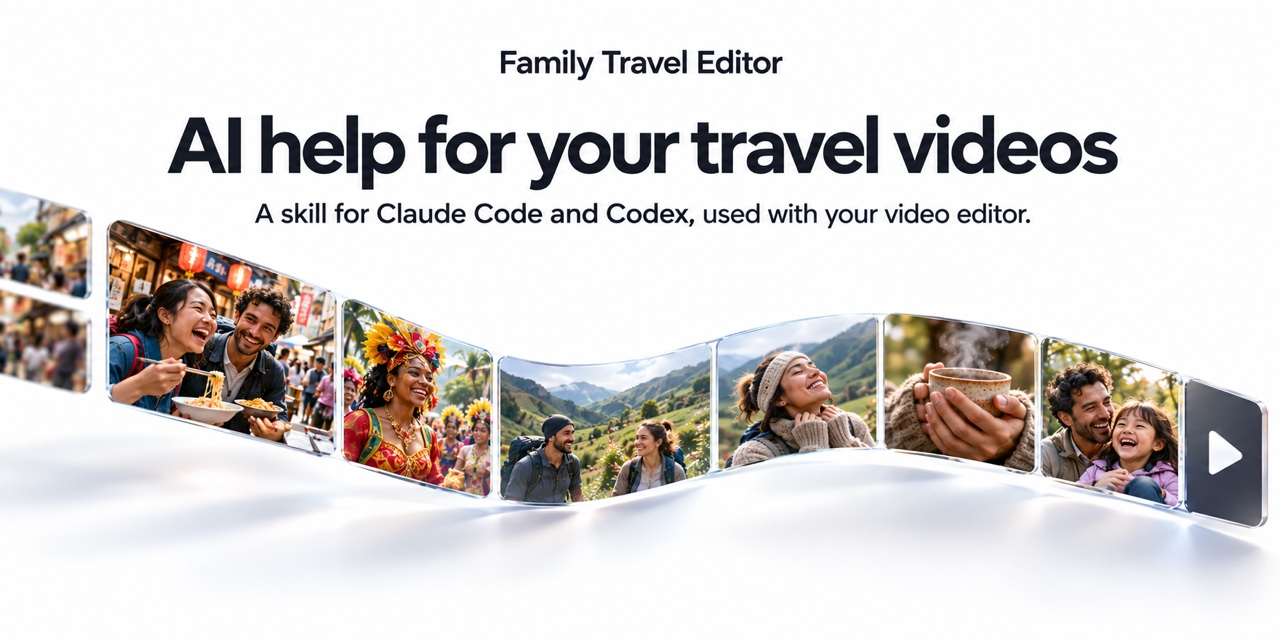
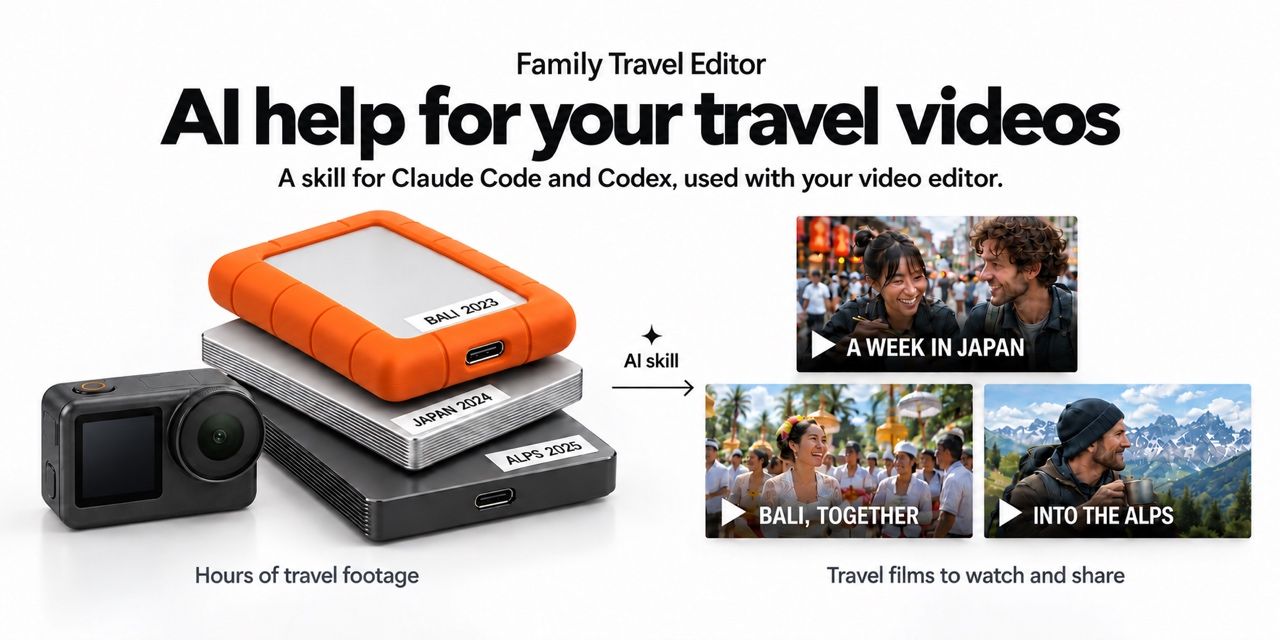
Release v0.3.7: publish selected drives-to-films cover with corrected hardware scale and USB placement

diff --git a/README.md b/README.md
@@ -1,14 +1,14 @@
 # Family Travel Editor
 
-<img src="assets/social-preview.jpg" alt="Family Travel Editor: an AI skill for Claude Code and Codex. A ribbon of travel scenes shows people, food, celebrations and mountain trips coming together in an edit." width="100%">
+<img src="assets/social-preview.jpg" alt="Family Travel Editor: an AI skill for Claude Code and Codex. Three labelled travel drives and an action camera lead to three travel films with AI help, using a separate video editor." width="100%">
 
 **An AI skill for Claude Code and Codex, used with your video editor.** It is not a standalone editor. It provides instructions, examples and helper tools for organizing footage, planning scenes and working through revisions. You use it in a local AI agent; you assemble the film in your preferred video editor. Direct editing by the agent requires an available, tested integration.
 
-[**Start here →**](#start-with-one-scene) · [What’s New in v0.3.6](docs/whats-new-v0.3.6.md) · [Capabilities and limits](docs/capabilities.md) · [Real-footage example](examples/grand-canyon-sunset/README.md)
+[**Start here →**](#start-with-one-scene) · [What’s New in v0.3.7](docs/whats-new-v0.3.7.md) · [Capabilities and limits](docs/capabilities.md) · [Real-footage example](examples/grand-canyon-sunset/README.md)
 
 ## Start with one scene
 
-1. **[Download the v0.3.6 source ZIP](https://github.com/denyakortunov/family-travel-editor/releases/download/v0.3.6/family-travel-editor-source-v0.3.6.zip)** and unzip it. Open the extracted folder in your local AI agent.
+1. **[Download the v0.3.7 source ZIP](https://github.com/denyakortunov/family-travel-editor/releases/download/v0.3.7/family-travel-editor-source-v0.3.7.zip)** and unzip it. Open the extracted folder in your local AI agent.
 2. Ask: **“Read `skills/family-travel-editor/SKILL.md`, check this installation and explain the next step.”** The agent needs file access. The helper check needs Python 3.9+; no editor, footage or paid service is required for that check.
 3. Give the agent **your footage folder, a separate working folder and one scene you want to tell**. Name your editor, or say “undecided.” Expect a catalogue, a readable scene plan, open questions and a saved next step. A catalogue is not proof that the clips have been watched.
 
@@ -30,7 +30,7 @@ Open a new chat and invoke `$family-travel-editor`, or ask the agent to read the
 An alternative for other compatible agents is the optional [skills CLI](https://github.com/vercel-labs/skills):
 
 ```sh
-npx skills add https://github.com/denyakortunov/family-travel-editor/tree/v0.3.6/skills/family-travel-editor
+npx skills add https://github.com/denyakortunov/family-travel-editor/tree/v0.3.7/skills/family-travel-editor
 ```
 
 Choose your agent when prompted. This route needs Node.js; the Python installer does not. See the [guide](docs/getting-started.md) for updates with backups and the [test record](docs/validation.md) for what has actually been checked.

diff --git a/docs/getting-started.md b/docs/getting-started.md
@@ -1,6 +1,6 @@
 # Your first scene
 
-[Download v0.3.6](https://github.com/denyakortunov/family-travel-editor/releases/tag/v0.3.6) · [What's New](whats-new-v0.3.6.md) · [Full workflow](from-footage-to-film.md)
+[Download v0.3.7](https://github.com/denyakortunov/family-travel-editor/releases/tag/v0.3.7) · [What's New](whats-new-v0.3.7.md) · [Full workflow](from-footage-to-film.md)
 
 This is a skill for a local AI agent, not a video-editing app. Installing it adds instructions and small helpers. It does not begin an edit, install Resolve, connect private accounts or download models. The helper programs need Python 3.9+ and an agent that can access your files. Text-only planning can begin without Python. ffprobe adds technical media metadata; rendering the optional silent test needs FFmpeg and ffprobe. Your agent has its own access and pricing.
 
@@ -8,7 +8,7 @@ This is a skill for a local AI agent, not a video-editing app. Installing it add
 
 ### Start here: source ZIP, no global installation needed
 
-Download **family-travel-editor-source-v0.3.6.zip** from the release and unzip it. Open the `family-travel-editor` folder in your local agent. The `README.md`, `tools/` and `skills/` folders should be visible. Ask it:
+Download **family-travel-editor-source-v0.3.7.zip** from the release and unzip it. Open the `family-travel-editor` folder in your local agent. The `README.md`, `tools/` and `skills/` folders should be visible. Ask it:
 
 > Read skills/family-travel-editor/SKILL.md. Check this installation and explain the next step. Do not edit any film yet.
 
@@ -35,7 +35,7 @@ Open a new chat in your film workspace and type `$family-travel-editor`. If it d
 From the project where you want to use it:
 
 ```sh
-npx skills add https://github.com/denyakortunov/family-travel-editor/tree/v0.3.6/skills/family-travel-editor
+npx skills add https://github.com/denyakortunov/family-travel-editor/tree/v0.3.7/skills/family-travel-editor
 ```
 
 Choose your agent when prompted. This pins the skill to this release; the short repository form follows current main. The [third-party CLI](https://github.com/vercel-labs/skills) supports several agents; its current documentation requires Node.js 22.20+. The skill itself needs no Node runtime. Use the Python route if you prefer no npm dependency. The entire skill folder is self-contained; repository-level `tools/` and examples are not runtime dependencies. See [what was tested](validation.md).

diff --git a/THIRD_PARTY_NOTICES.md b/THIRD_PARTY_NOTICES.md
@@ -6,7 +6,7 @@ DJI, Gmail, DaVinci Resolve, Dropbox and YouTube symbols come from https://githu
 
 Resolve, FFmpeg, Python, optional models and service integrations are not redistributed by this repository. The color-bar and story-to-cut fixtures are synthetic; the separately credited Grand Canyon exercise uses public-domain NPS footage. No private family footage, travel records or voice recordings are bundled.
 
-The current travel-ribbon cover is original AI-generated illustrative artwork created with OpenAI image generation. Its people and travel scenes are fictional illustrations, not private family footage, testimonials or evidence of an edit made by the skill. The JPEG is exported from the selected raster artwork. The plugin icon is original SVG artwork. Earlier release archives retain their original covers and diagrams.
+The current drives-to-films cover is original AI-generated illustrative artwork created with OpenAI image generation. Its devices, people and travel scenes are illustrative; the trips and film covers are fictional, not private family footage, testimonials or evidence of an edit made by the skill. The JPEG is exported from the selected raster artwork. The plugin icon is original SVG artwork. Earlier release archives retain their original covers and diagrams.
 
 Historical diagrams retain earlier AI-generated device illustrations; those are illustrative, not application screenshots. Document icons reuse source assets in `docs/icons/`. The photographic concept cover from v0.3.3 has been removed from the current package; earlier release archives retain their original contents.
 

diff --git a/docs/whats-new-v0.3.7.md b/docs/whats-new-v0.3.7.md
@@ -1,0 +1,11 @@
+# What’s New in v0.3.7
+
+29 October 2026 — the selected drives-to-films cover.
+
+- Three labelled travel drives and an action camera show the starting material; three film covers show the intended result of the editing process.
+- Rebuilt the hardware illustration with cleaner materials and proportions informed by actual portable-drive and action-camera dimensions. The equipment is unbranded and the background remains neutral.
+- The README, workflow guide and social-sharing preview use the same selected cover. One line explains that the skill works with Claude Code or Codex and a separate video editor.
+
+This is a presentation update. The cover is AI-generated illustrative artwork, not private footage or films produced by the skill. Installation, helper behavior and integration limits are unchanged. Bundled previews remain silent; native editor automation requires an available, tested integration.
+
+[Download v0.3.7](https://github.com/denyakortunov/family-travel-editor/releases/tag/v0.3.7) · [Get started](getting-started.md) · [Validation](validation.md)

diff --git a/docs/from-footage-to-film.md b/docs/from-footage-to-film.md
@@ -4,7 +4,7 @@ This is the working method behind Family Travel Editor. It combines footage insp
 
 [Get started](../README.md#start-with-one-scene) · [Tools and costs](../README.md#tools-and-budget) · [Reproducible trimming test](walkthrough.md)
 
-<img src="../assets/social-preview.jpg" alt="An AI skill for Claude Code and Codex helps assemble travel scenes in your video editor." width="100%">
+<img src="../assets/social-preview.jpg" alt="Travel footage on three drives becomes three films with help from an AI skill for Claude Code and Codex, used with your video editor." width="100%">
 
 ## 1. Footage and travel evidence → a context ledger
 

diff --git a/docs/release-notes.md b/docs/release-notes.md
@@ -1,5 +1,9 @@
 # Release notes
 
+## v0.3.7 — the selected drives-to-films cover
+
+[What’s New](whats-new-v0.3.7.md): three drives, an action camera and three film covers, with cleaner hardware rendering and consistent presentation.
+
 ## v0.3.6 — a new travel-ribbon cover
 
 [What’s New](whats-new-v0.3.6.md): people and travel moments, a neutral photographic cover, and consistent desktop/mobile presentation.
